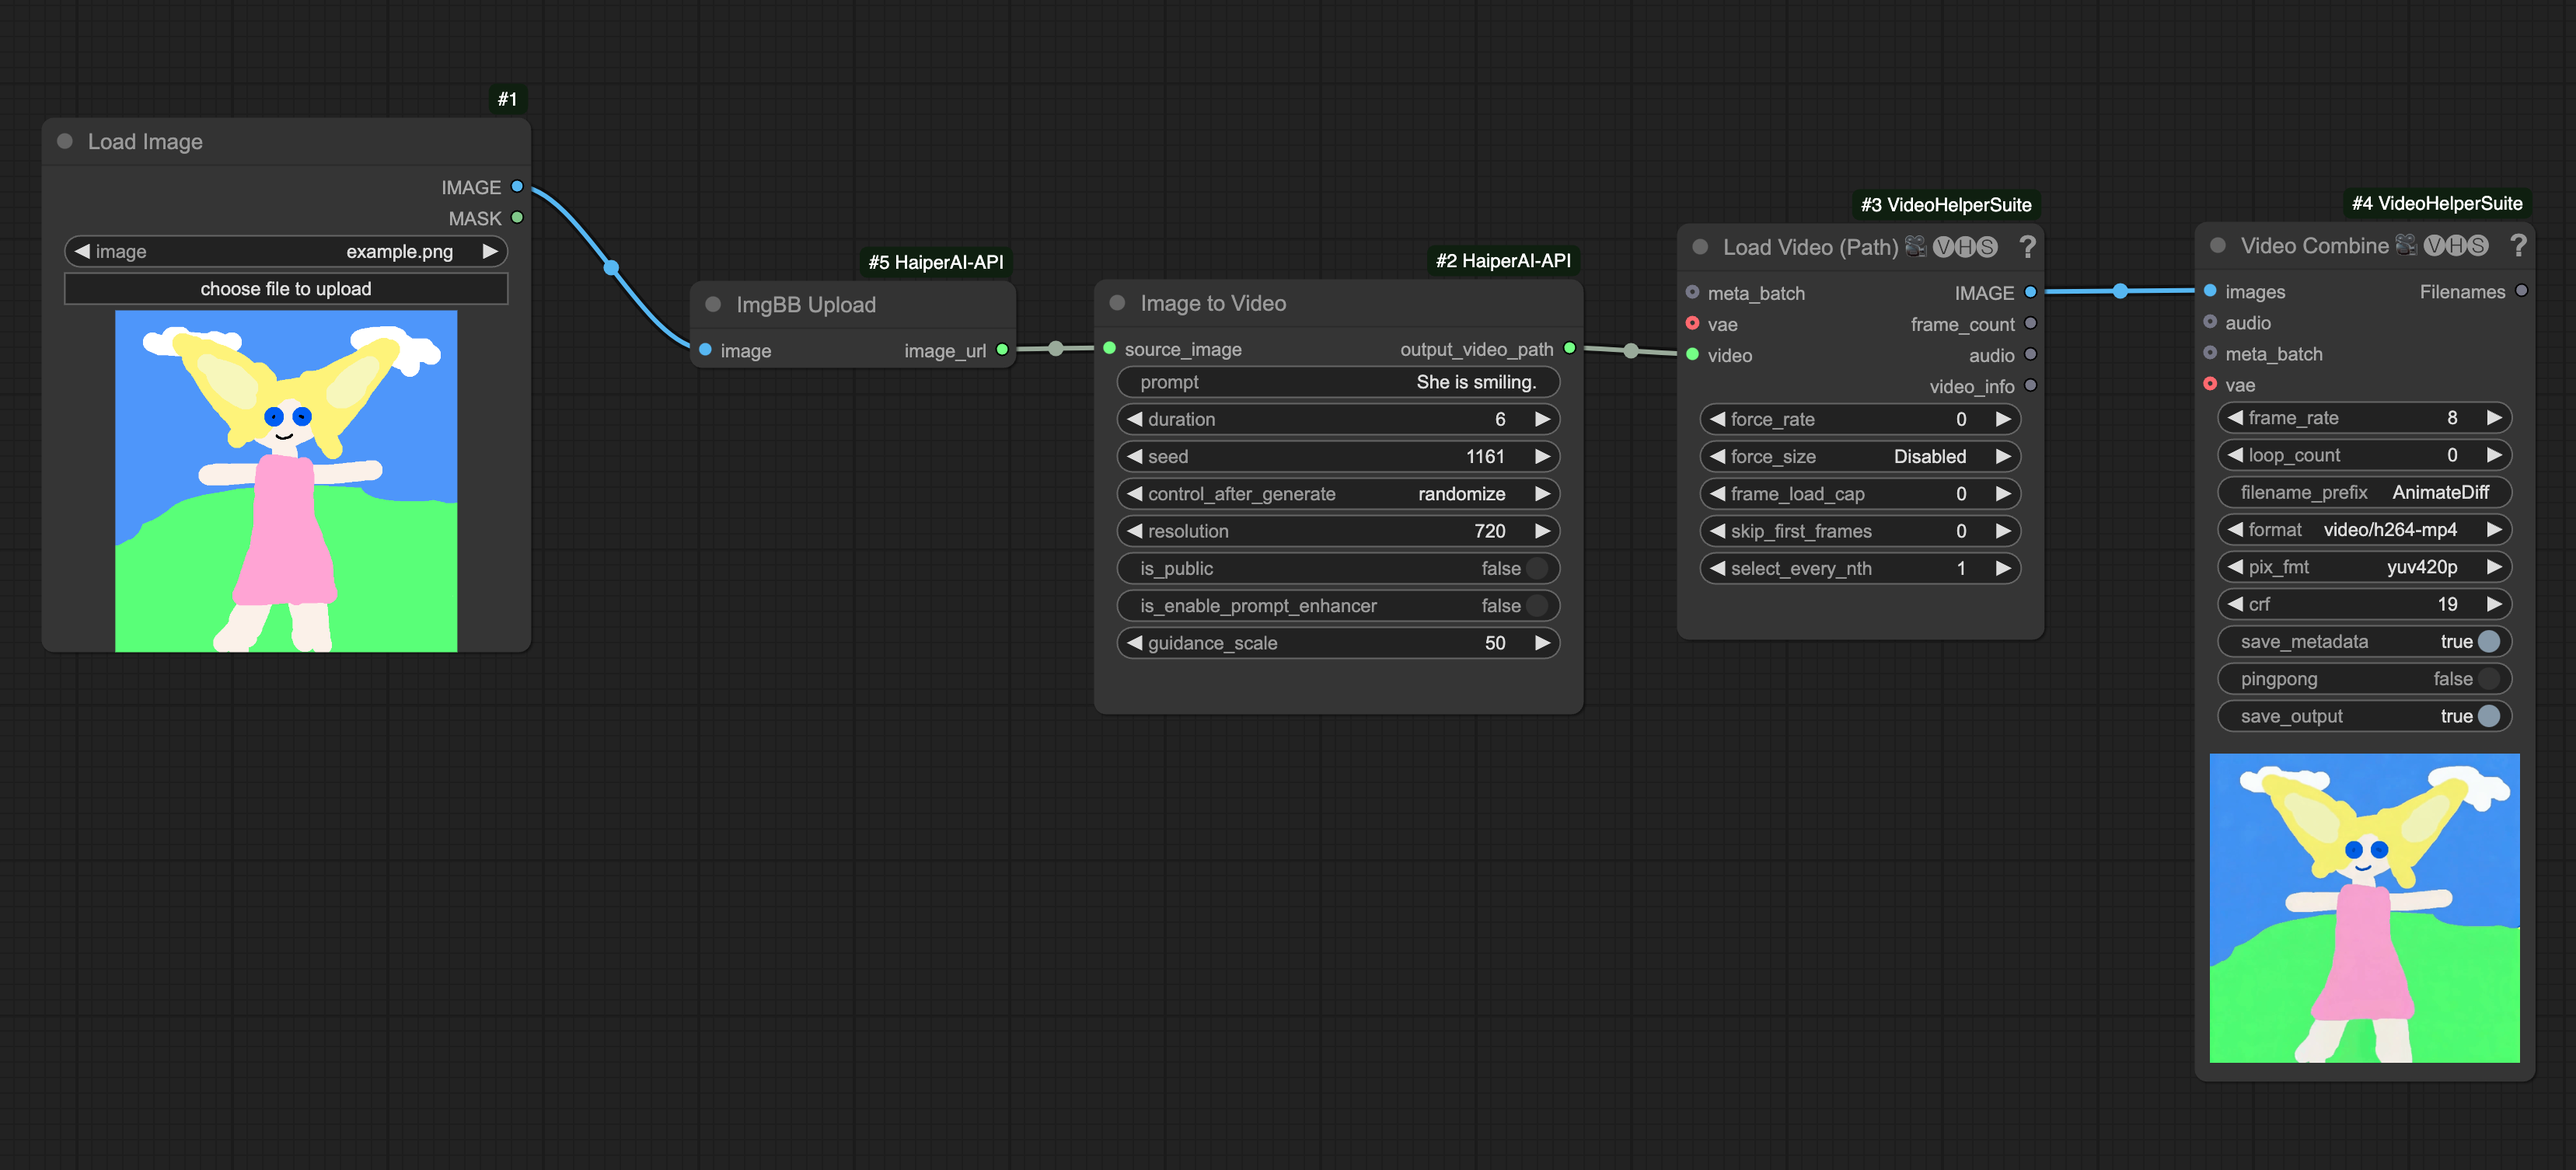
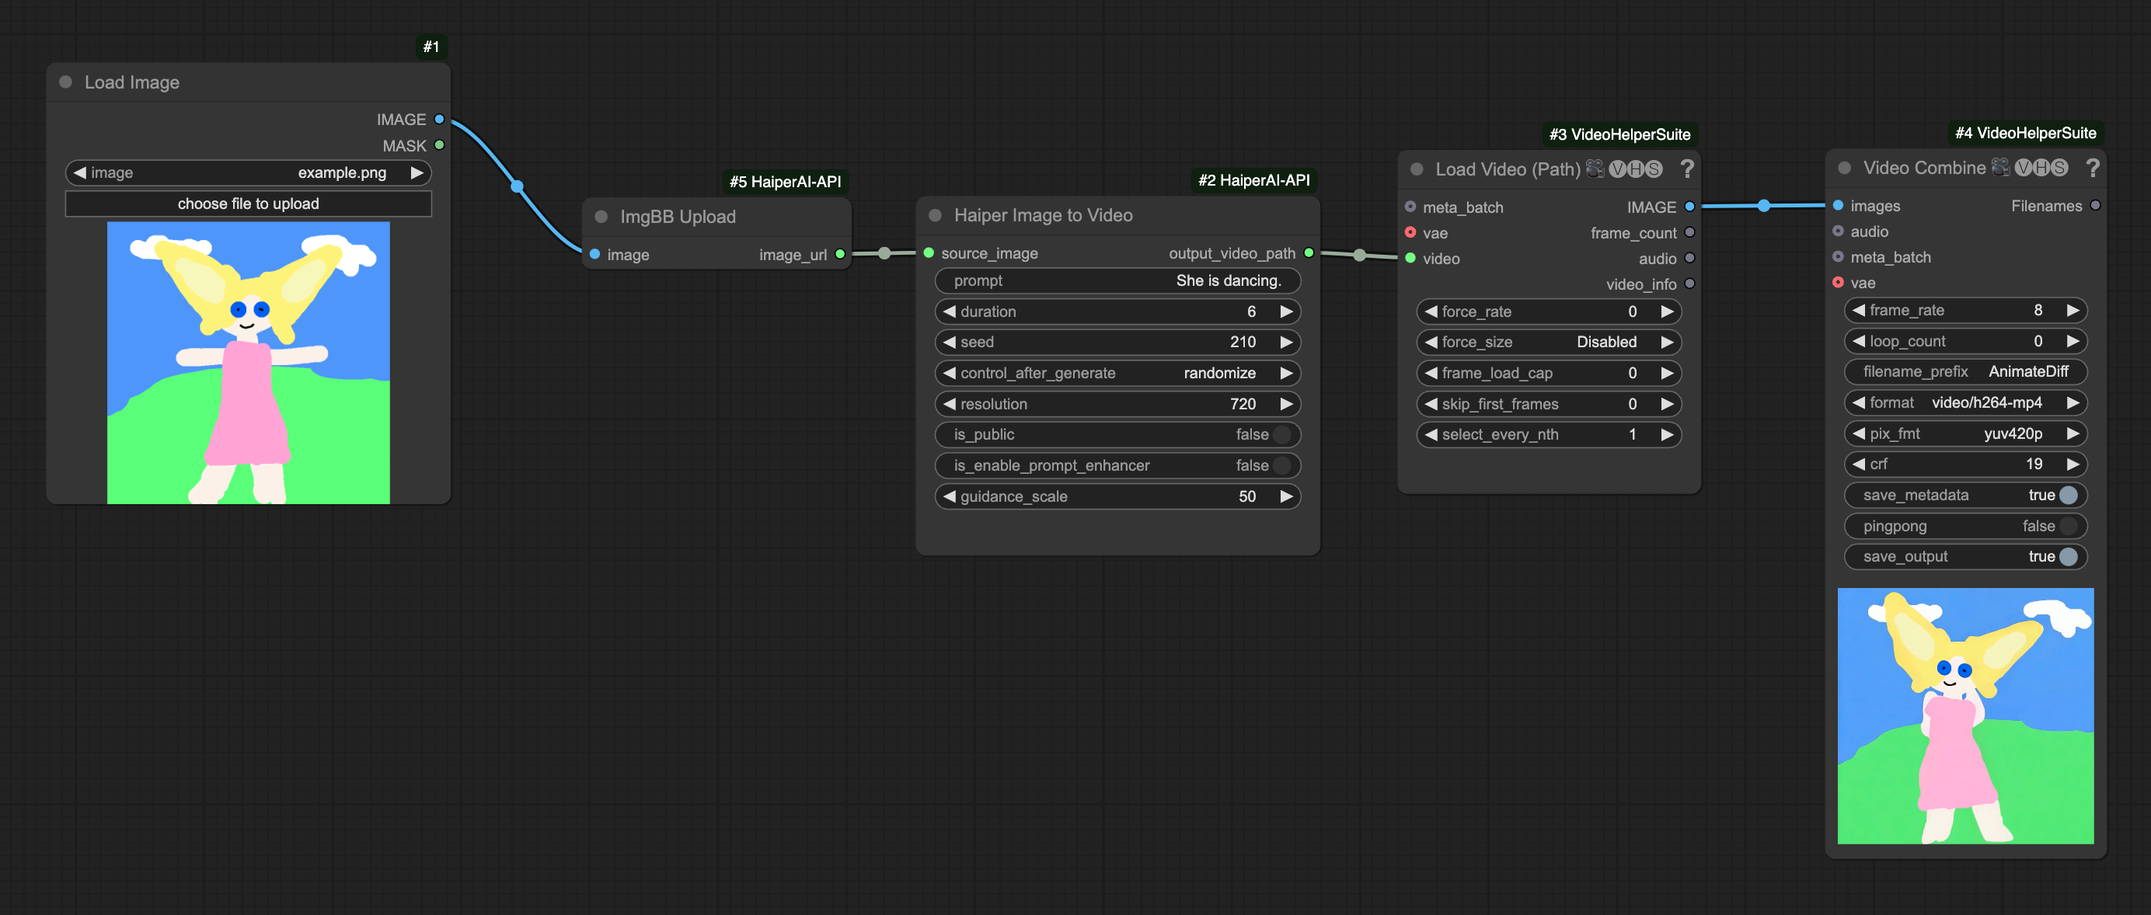
custom node name begin with Haiper

diff --git a/py/nodes.py b/py/nodes.py
@@ -16,7 +16,7 @@ NODE_CLASS_MAPPINGS = {
 # A dictionary that contains the friendly/humanly readable titles for the nodes
 NODE_DISPLAY_NAME_MAPPINGS = {
     "ImgBBUpload": "ImgBB Upload",
-    "HaiperImage2Video": "Image to Video",
-    "HaiperText2Video": "Text to Video",
-    "HaiperText2Image": "Text to Image",
+    "HaiperImage2Video": "Haiper Image to Video",
+    "HaiperText2Video": "Haiper Text to Video",
+    "HaiperText2Image": "Haiper Text to Image",
 }
